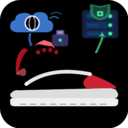
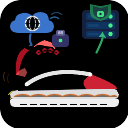
Fix namespace-scoped install mode, add TUF RBAC, fix reconcile loop
- Change AllNamespaces install mode to false so OperatorGroup is
  namespace-scoped, fixing RHBK and RHTPA operator compatibility
- Add RBAC permission for tufs.rhtas.redhat.com to fix root key extraction
- Add Kubernetes default probe fields (failureThreshold, successThreshold,
  timeoutSeconds) to frontend and console-plugin deployments to prevent
  constant reconcile updates
- Update icon with hot rod flames on sneaker sole (Greased Lightning nod)

diff --git a/internal/controller/disconnectedplatform_controller.go b/internal/controller/disconnectedplatform_controller.go
@@ -122,6 +122,7 @@ type DisconnectedPlatformReconciler struct {
 // +kubebuilder:rbac:groups=operators.coreos.com,resources=clusterserviceversions,verbs=get;list;watch
 // +kubebuilder:rbac:groups=rhtpa.io,resources=trustedprofileanalyzers,verbs=get;list;watch;create;update;patch;delete
 // +kubebuilder:rbac:groups=rhtas.redhat.com,resources=securesigns,verbs=get;list;watch;create;update;patch;delete
+// +kubebuilder:rbac:groups=rhtas.redhat.com,resources=tufs,verbs=get;list;watch
 // +kubebuilder:rbac:groups=k8s.keycloak.org,resources=keycloaks,verbs=get;list;watch;create;update;patch;delete
 // +kubebuilder:rbac:groups=k8s.keycloak.org,resources=keycloakrealmimports,verbs=get;list;watch;create;update;patch;delete
 // +kubebuilder:rbac:groups=cert-manager.io,resources=certificates,verbs=get;list;watch;create;update;patch;delete
@@ -5406,6 +5407,9 @@ func frontendContainer(name, image string, labels map[string]string, backendRout
 			},
 			"initialDelaySeconds": int64(5),
 			"periodSeconds":       int64(10),
+			"failureThreshold":    int64(3),
+			"successThreshold":    int64(1),
+			"timeoutSeconds":      int64(1),
 		},
 		"livenessProbe": map[string]interface{}{
 			"tcpSocket": map[string]interface{}{
@@ -5413,6 +5417,9 @@ func frontendContainer(name, image string, labels map[string]string, backendRout
 			},
 			"initialDelaySeconds": int64(15),
 			"periodSeconds":       int64(20),
+			"failureThreshold":    int64(3),
+			"successThreshold":    int64(1),
+			"timeoutSeconds":      int64(1),
 		},
 	}
 }
@@ -5485,6 +5492,9 @@ func consolePluginContainer(name, image string, labels map[string]string) map[st
 			},
 			"initialDelaySeconds": int64(5),
 			"periodSeconds":       int64(10),
+			"failureThreshold":    int64(3),
+			"successThreshold":    int64(1),
+			"timeoutSeconds":      int64(1),
 		},
 		"readinessProbe": map[string]interface{}{
 			"httpGet": map[string]interface{}{
@@ -5494,6 +5504,9 @@ func consolePluginContainer(name, image string, labels map[string]string) map[st
 			},
 			"initialDelaySeconds": int64(5),
 			"periodSeconds":       int64(10),
+			"failureThreshold":    int64(3),
+			"successThreshold":    int64(1),
+			"timeoutSeconds":      int64(1),
 		},
 	}
 }